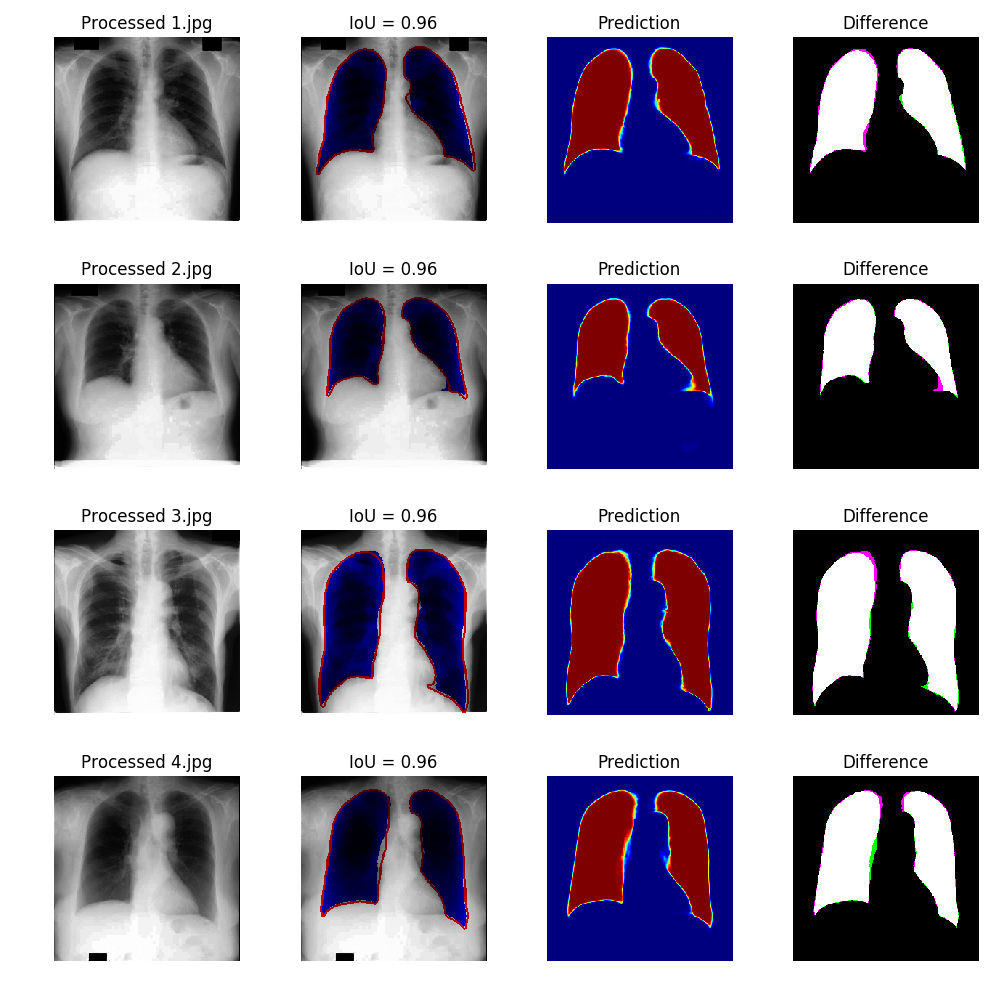
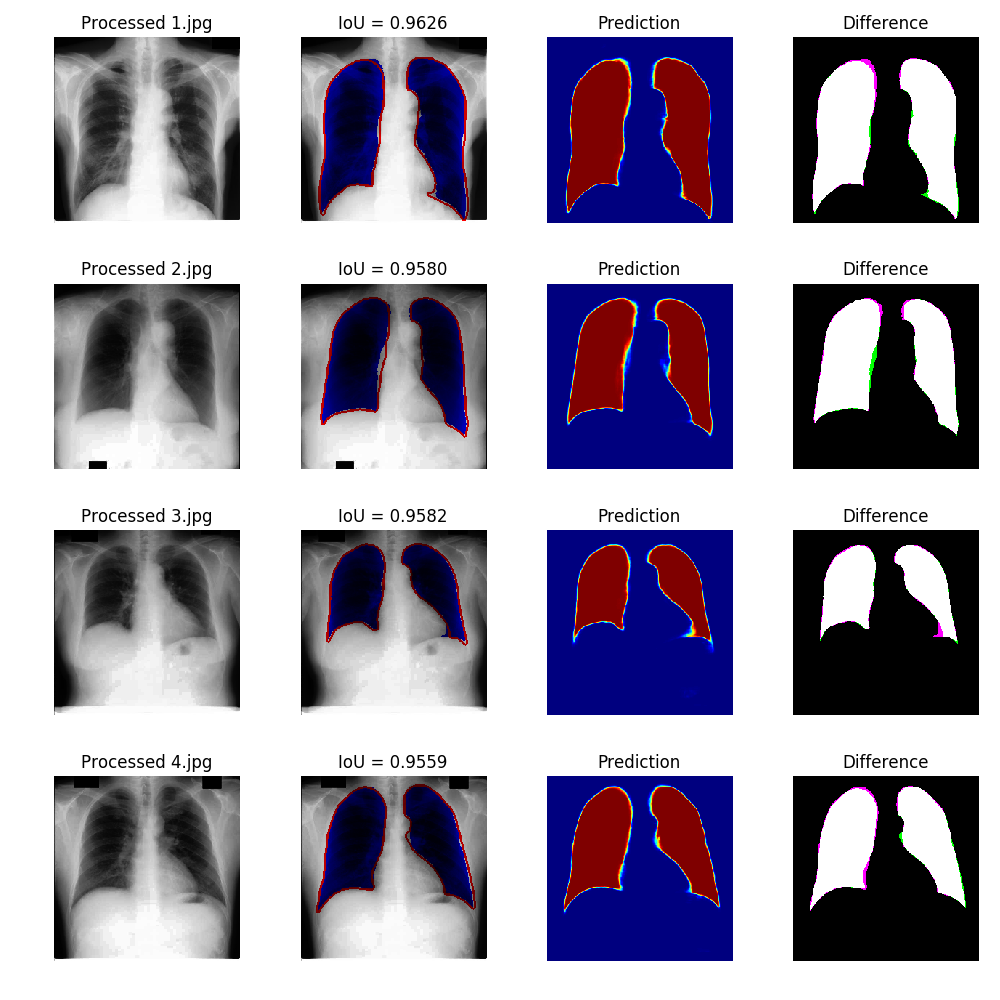
Changed precision in demo

diff --git a/Demo/demo.py b/Demo/demo.py
@@ -89,10 +89,10 @@ if __name__ == '__main__':
     inp_shape = X[0].shape
 
     # Load model
-    model_name = '../UNET2D.hdf5'
+    model_name = '../trained_model.hdf5'
     UNet = load_model(model_name)
 
-    # For inference standard keras ImageGenerator is used.
+    # For inference standard keras ImageGenerator can be used.
     test_gen = ImageDataGenerator(rescale=1.)
 
     ious = np.zeros(n_test)
@@ -126,7 +126,7 @@ if __name__ == '__main__':
             plt.imshow(img, cmap='gray')
 
             plt.subplot(4, 4, 4 * i + 2)
-            plt.title('IoU = {:.2f}'.format(ious[i]))
+            plt.title('IoU = {:.4f}'.format(ious[i]))
             plt.axis('off')
             plt.imshow(masked(img, gt, pr, 1))
 
